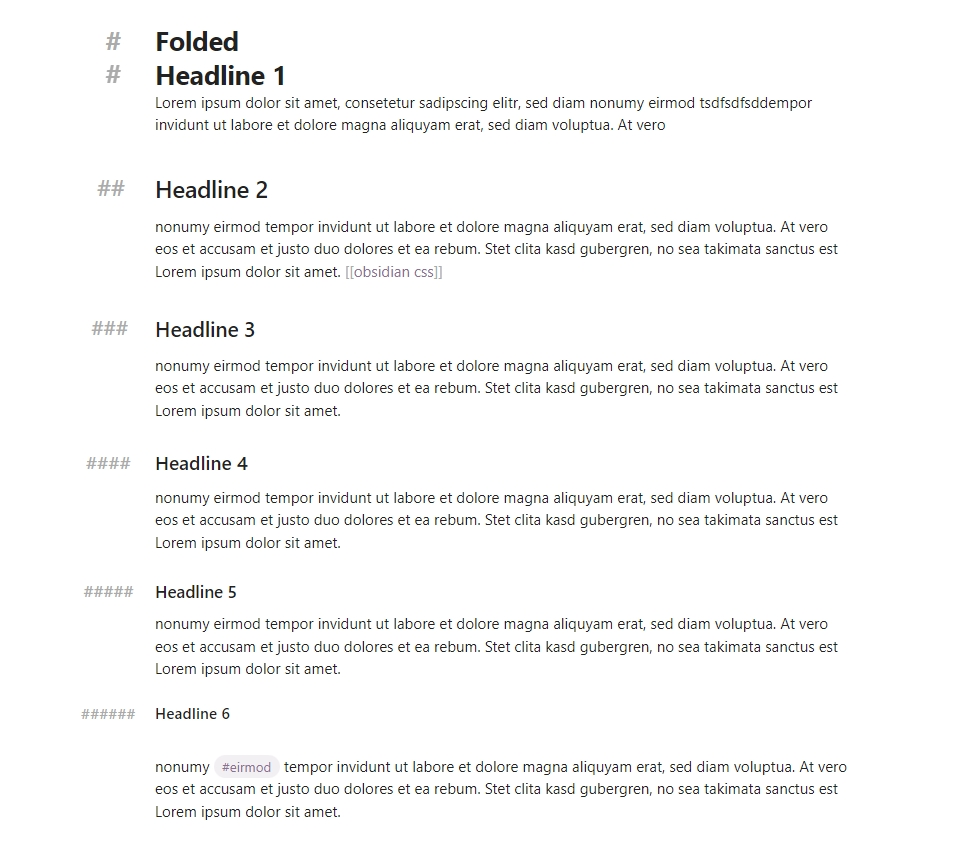
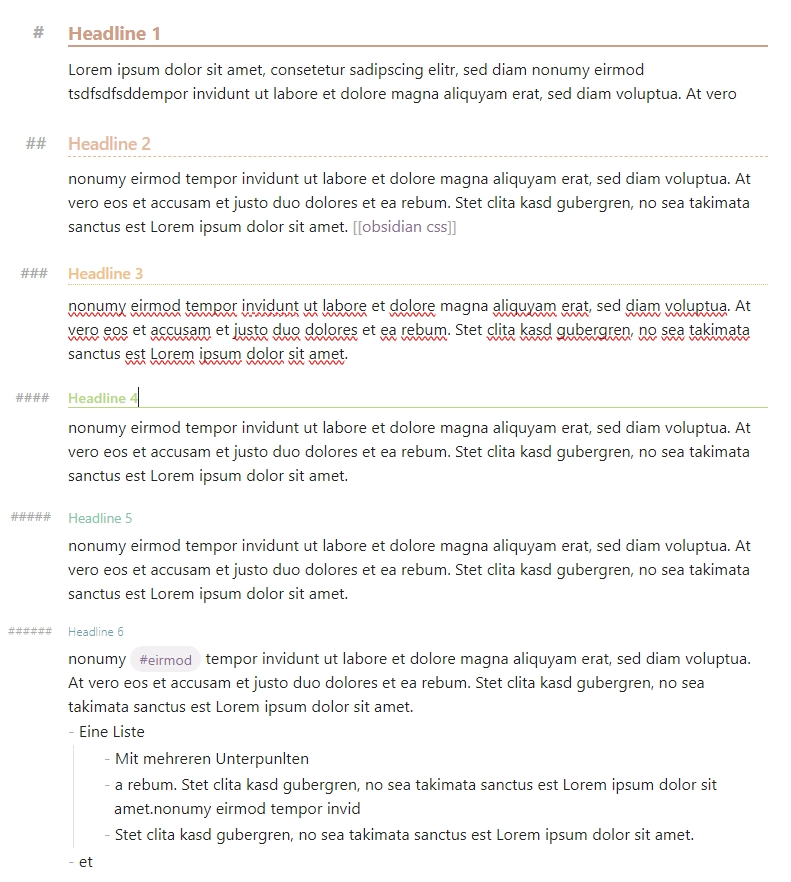
v1.6

diff --git a/src/Orbis.css b/src/Orbis.css
@@ -33,6 +33,35 @@
   --opacity-collapsed: 0.6;
 }
 
+/* Collapse-Button im Edit-Modus – klickbare Fläche erweitern */
+.markdown-source-view.mod-cm6 .collapse-indicator {
+  position: relative;
+  opacity: 0 !important; /* Unsichtbar lassen */
+  z-index: 10;
+}
+
+/* Erweiterte klickbare Fläche */
+.markdown-source-view.mod-cm6 .collapse-indicator::before {
+  content: "->";
+  position: absolute;
+  top: 0;
+  left: -70px; 
+  width: 80px;
+  height: 100%;
+  display: block;
+  pointer-events: auto;
+  cursor: pointer;
+  box-sizing: border-box;
+  background-color: transparent;
+}
+
+
+.markdown-source-view.mod-cm6 .collapse-indicator::before:hover {
+  background-color: rgba(255, 200, 0, 0.15);
+  border: 1px dashed rgba(255, 200, 0, 0.5);
+}
+
+
 /* Abstände: h1 oben 0, andere Standard */
 h1, .markdown-preview-view h1, .cm-s-obsidian div.HyperMD-header.HyperMD-header-1 {
   margin: 0 0 0.5em !important;
@@ -122,6 +151,7 @@ h6,
   pointer-events: none;
 }
 
+
 /* Collapse-Icons immer sichtbar */
 .markdown-preview-view h1 > .collapse-icon,
 .markdown-preview-view h2 > .collapse-icon,
@@ -164,4 +194,18 @@ h6,
 .markdown-preview-view p {
   margin: 0 0 0.5em !important;
 }
+
+/* nur die "..." */
+
+ .markdown-source-view.mod-cm6 .cm-foldPlaceholder {
+  background-color: var(--background-secondary);
+  color: var(--text-normal);
+  padding: 0 8px;
+  border-radius: 4px;
+  font-size: 0.85rem;
+  border: 1px solid var(--background-modifier-border);
+  opacity: var(--opacity-collapsed);
+}
+
+
 

diff --git a/README.md b/README.md
@@ -1,5 +1,5 @@
 # Orbis
-A snippet that brings Org-mode inspired headings to Obsidian
+A snippet that brings Org-mode inspired headings to Obsidian.
 
 # How to Install
 
